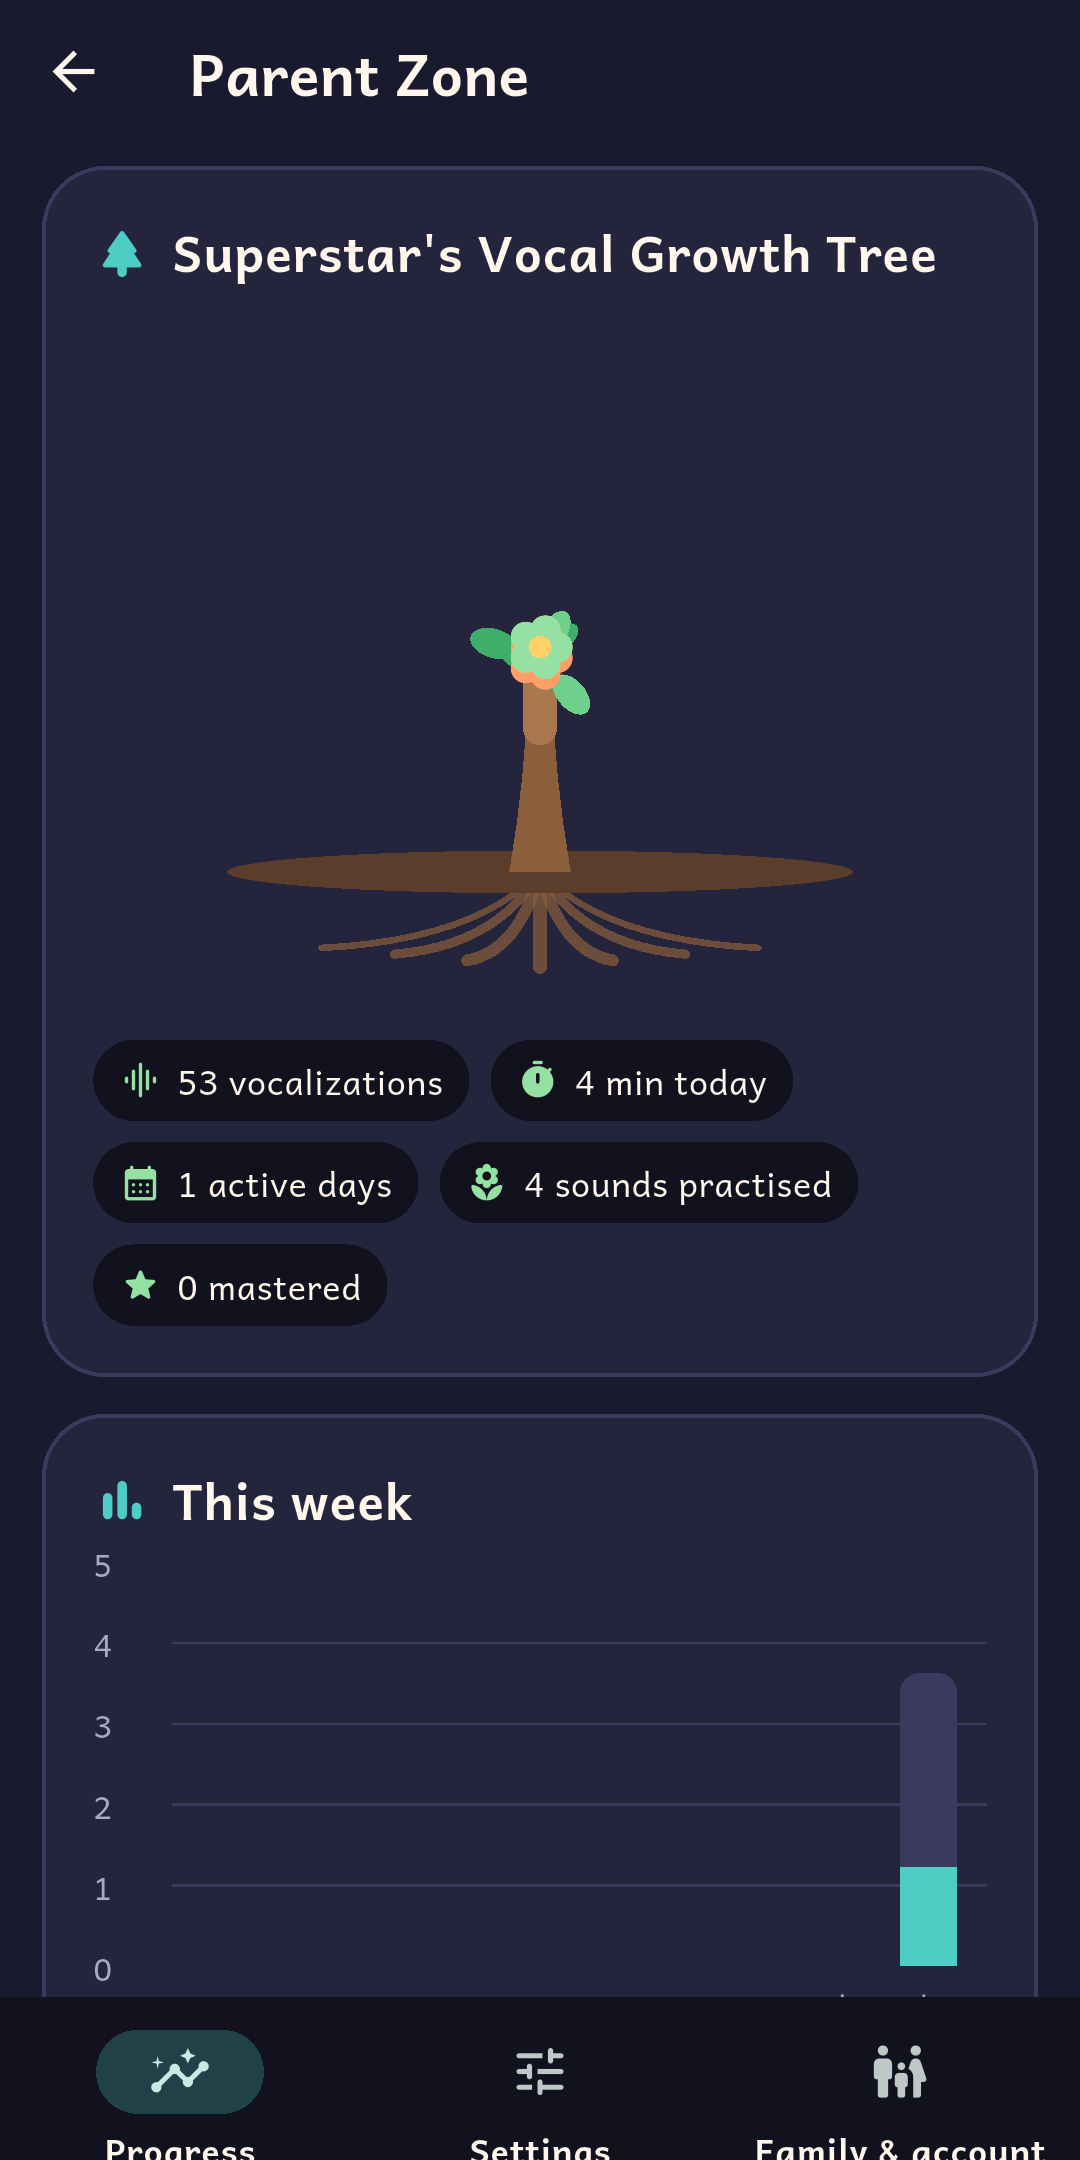
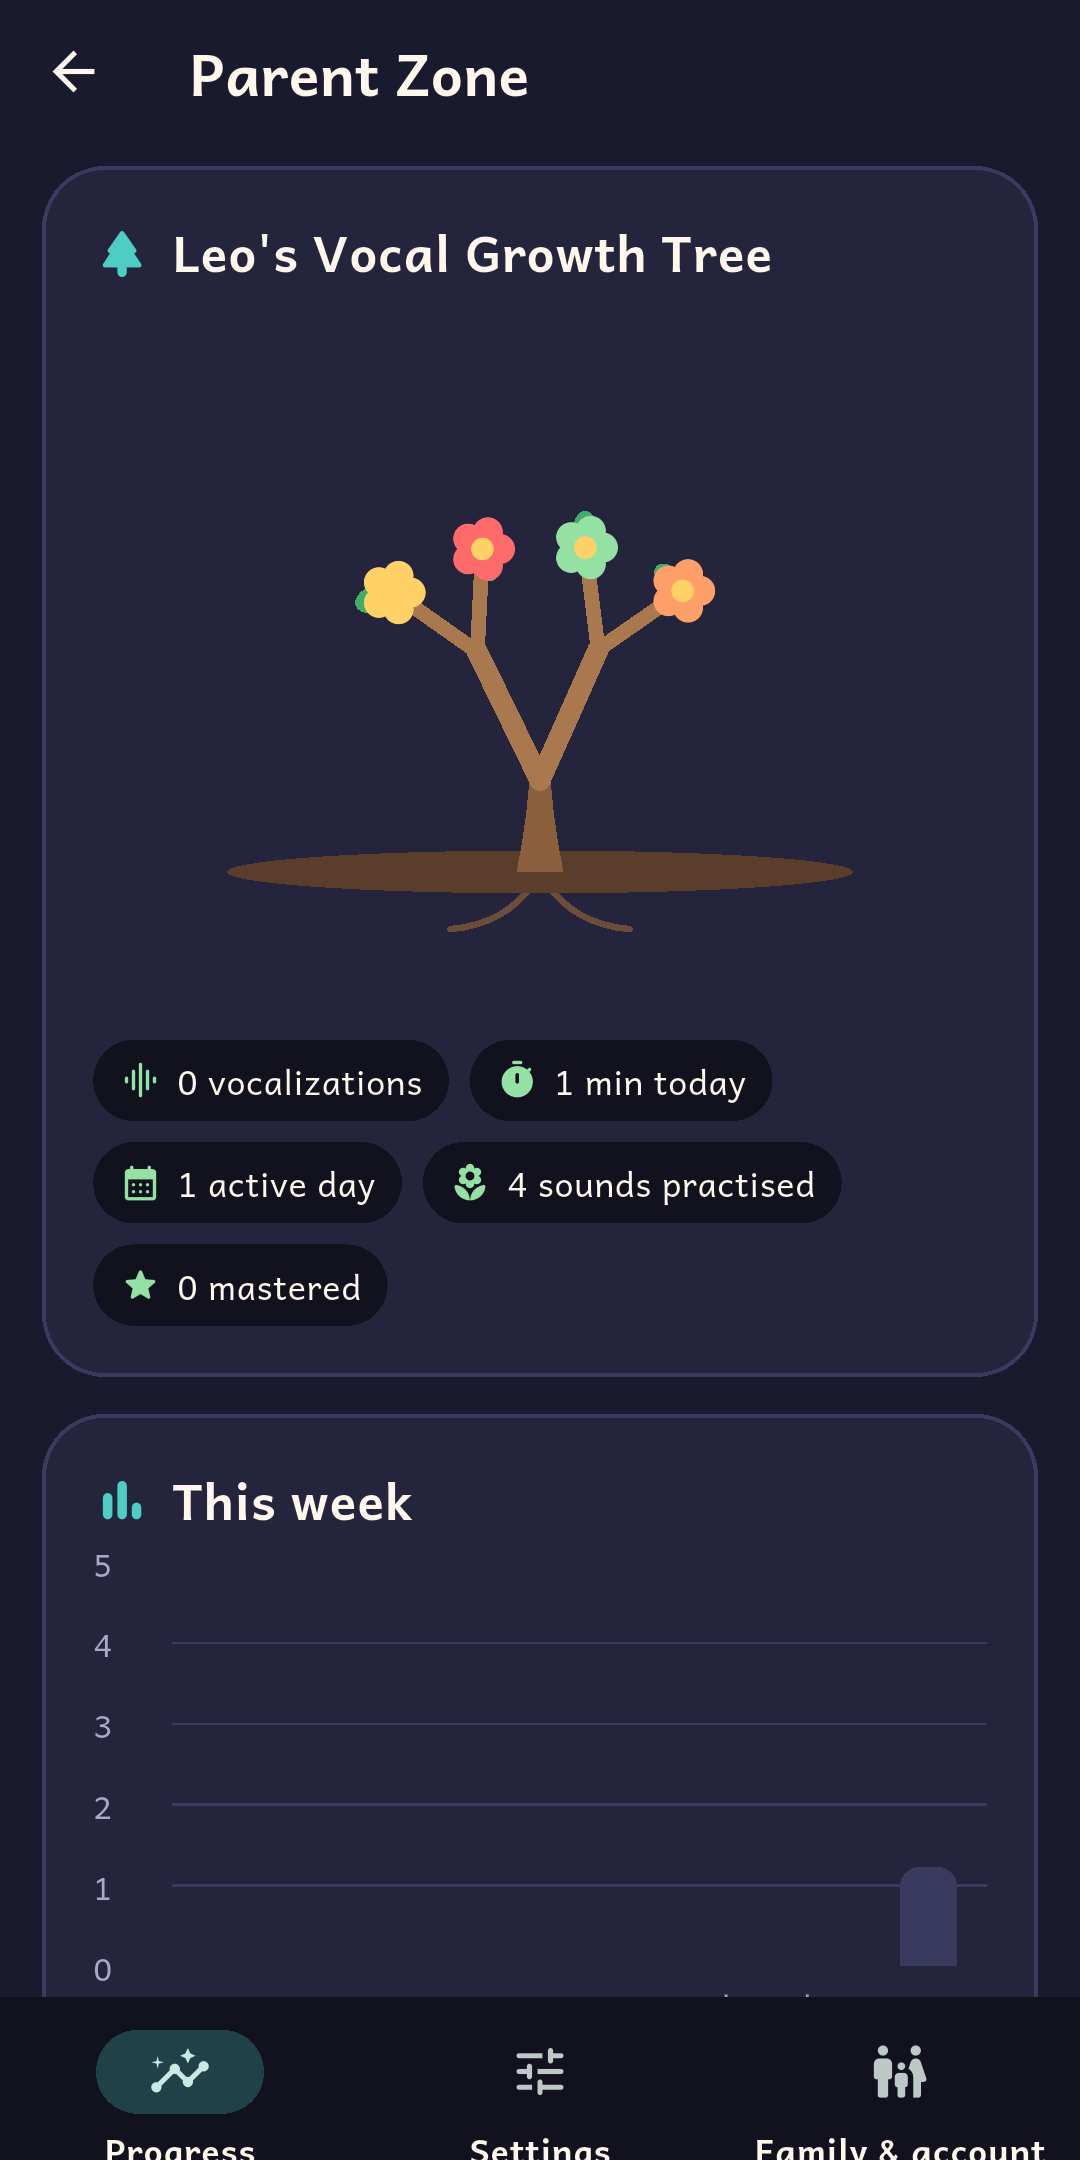
Harden device tests; fuller early growth tree; plural fixes
- Device suites bundled in integration_test/all_test.dart; waits and
  retrying back navigation for slow emulators. All 3 pass on Android 15.
- Growth tree forks at the trunk top and sizes branches to fit, so day-one
  trees branch visibly and big trees stay in frame.
- "1 active day" / "1 sound" pluralization on the progress chips.
- Refreshed growth-tree store screenshot; documented test results.

diff --git a/integration_test/app_flow_test.dart b/integration_test/app_flow_test.dart
@@ -36,11 +36,34 @@ Future<void> waitFor(WidgetTester tester, Finder f, {double seconds = 45}) async
   expect(f, findsWidgets);
 }
 
+/// Pumps until [f] finds nothing.
+Future<void> waitGone(WidgetTester tester, Finder f, {double seconds = 20}) async {
+  final end = DateTime.now().add(Duration(milliseconds: (seconds * 1000).round()));
+  while (f.evaluate().isNotEmpty && DateTime.now().isBefore(end)) {
+    await tester.pump(const Duration(milliseconds: 100));
+  }
+  expect(f, findsNothing);
+}
+
 Future<void> tapIn(WidgetTester tester, Finder f) async {
   await waitFor(tester, f);
   await tester.ensureVisible(f);
   await tester.pump();
   await tester.tap(f);
+}
+
+/// Taps the top-most Back until [target] shows. On a slow emulator a tap can
+/// land on a screen that is still fading out.
+Future<void> backUntil(WidgetTester tester, Finder target) async {
+  for (var i = 0; i < 4 && target.evaluate().isEmpty; i++) {
+    final back = find.bySemanticsLabel('Back');
+    if (back.evaluate().isNotEmpty) await tester.tap(back.last, warnIfMissed: false);
+    final end = DateTime.now().add(const Duration(seconds: 8));
+    while (target.evaluate().isEmpty && DateTime.now().isBefore(end)) {
+      await tester.pump(const Duration(milliseconds: 100));
+    }
+  }
+  expect(target, findsWidgets);
 }
 
 void main() {
@@ -51,17 +74,19 @@ void main() {
     final dir = Directory('${docs.path}/it_${DateTime.now().millisecondsSinceEpoch}')..createSync();
     final store = await Store.open(dir);
     final speech = Speech(); // real TTS: prompts play, and the mic is muted meanwhile
-    await tester.pumpWidget(EchoStepsApp(
-      store: store,
-      sound: SoundPlayer(),
-      speech: speech,
-      voice: VoiceEngine(
-        appSpeaking: speech.speaking,
-        inputFactory: (id) => SynthInput(script: id == null ? null : SynthInput.targetScript(id)),
+    await tester.pumpWidget(
+      EchoStepsApp(
+        store: store,
+        sound: SoundPlayer(),
+        speech: speech,
+        voice: VoiceEngine(
+          appSpeaking: speech.speaking,
+          inputFactory: (id) => SynthInput(script: id == null ? null : SynthInput.targetScript(id)),
+        ),
+        session: SessionTracker(store),
+        cloud: CloudSync(store: store),
       ),
-      session: SessionTracker(store),
-      cloud: CloudSync(store: store),
-    ));
+    );
     await run(tester, 3);
 
     // Setup.
@@ -81,7 +106,7 @@ void main() {
     // Sound Spark.
     await tapIn(tester, find.byKey(const ValueKey('hub-spark')));
     await run(tester, 15);
-    await tapIn(tester, find.bySemanticsLabel('Back').first);
+    await backUntil(tester, find.byKey(const ValueKey('hub-safari')));
     await run(tester, 2);
 
     // Echo Safari: "ah" then "Next sound" to "mmm".
@@ -91,19 +116,23 @@ void main() {
     await waitFor(tester, find.text('New card!'), seconds: 90);
     await run(tester, 2);
     await tapIn(tester, find.byKey(const ValueKey('stop-next')));
+    // The first stop's reward fades out before the "Mmm" stop takes over.
+    await waitGone(tester, find.text('New card!'));
     await waitFor(tester, find.text('New card!'), seconds: 90);
-    await tapIn(tester, find.bySemanticsLabel('Back').first);
+    expect(find.text('milk'), findsOneWidget);
+    await backUntil(tester, find.byKey(const ValueKey('stop-ah'))); // the map
     await run(tester, 2);
-    await tapIn(tester, find.bySemanticsLabel('Back').first);
+    await backUntil(tester, find.byKey(const ValueKey('hub-cards')));
     await run(tester, 2);
 
     // Card wall.
     await tapIn(tester, find.byKey(const ValueKey('hub-cards')));
-    await run(tester, 2);
-    expect(find.text('milk'), findsWidgets); // unlocked by "mmm"
-    await tapIn(tester, find.byKey(const ValueKey('card-milk')));
+    await waitFor(tester, find.byKey(const ValueKey('card-more')));
+    // "milk" (unlocked by "mmm") is further down the grid.
+    await tester.dragUntilVisible(find.byKey(const ValueKey('card-milk')), find.byType(GridView), const Offset(0, -300));
+    await tester.tap(find.byKey(const ValueKey('card-milk')));
     await run(tester, 6);
-    await tapIn(tester, find.bySemanticsLabel('Back').first);
+    await backUntil(tester, find.byKey(const ValueKey('parent-lock')));
     await run(tester, 2);
 
     // Parent Zone.

diff --git a/lib/widgets/growth_tree.dart b/lib/widgets/growth_tree.dart
@@ -102,8 +102,8 @@ class GrowthTreePainter extends CustomPainter {
     );
 
     // Trunk.
-    final trunkH = h * (0.12 + 0.3 * stats.growth);
-    final trunkW = w * (0.025 + 0.035 * stats.growth);
+    final trunkH = h * (0.1 + 0.2 * stats.growth);
+    final trunkW = w * (0.022 + 0.03 * stats.growth);
     final top = Offset(w / 2, ground - trunkH);
     canvas.drawPath(
       Path()
@@ -115,33 +115,44 @@ class GrowthTreePainter extends CustomPainter {
       Paint()..color = _bark,
     );
 
-    // Branches.
+    // Branches fork right at the trunk top. Their length is sized so the
+    // whole canopy fits the space above, however deep it gets.
     final tips = <Offset>[];
     final branchPaint = Paint()
       ..color = _barkLight
       ..strokeCap = StrokeCap.round;
+    const shrink = 0.72;
     void branch(Offset from, double angle, double len, double width, int depth) {
-      if (depth == 0) {
-        tips.add(from);
-        return;
-      }
       final to = from + Offset(math.sin(angle), -math.cos(angle)) * len;
       branchPaint.strokeWidth = width;
       canvas.drawLine(from, to, branchPaint);
-      final spread = 0.42 + rand.nextDouble() * 0.2;
-      branch(to, angle - spread, len * 0.74, width * 0.7, depth - 1);
-      branch(to, angle + spread, len * 0.74, width * 0.7, depth - 1);
+      if (depth <= 1) {
+        tips.add(to);
+        return;
+      }
+      final spread = 0.38 + rand.nextDouble() * 0.18;
+      branch(to, angle - spread, len * shrink, width * 0.7, depth - 1);
+      branch(to, angle + spread, len * shrink, width * 0.7, depth - 1);
     }
 
     final depth = stats.depth;
     if (depth == 0) {
       tips.add(top);
     } else {
-      branch(top, 0, h * (0.08 + 0.07 * stats.growth), trunkW * 1.1, depth);
+      var reach = 0.0;
+      for (var k = 0; k < depth; k++) {
+        reach += math.pow(shrink, k) * 0.85; // branches lean, so less than full height
+      }
+      final len = math.min((top.dy - h * 0.17) / reach, h * 0.2);
+      final width = trunkW * 0.9;
+      for (final a in [-0.45, 0.45]) {
+        branch(top, a + (rand.nextDouble() - 0.5) * 0.1, len, width, depth);
+      }
+      if (depth >= 3) branch(top, (rand.nextDouble() - 0.5) * 0.15, len * 0.9, width * 0.9, depth - 1);
     }
 
     // Leaves: clusters at the tips, fuller with more vocalizations.
-    final perTip = (1 + stats.vocalizations / (8 * tips.length)).clamp(1, 5).round();
+    final perTip = (2 + stats.vocalizations / (8 * tips.length)).clamp(2, 6).round();
     for (final tip in tips) {
       for (var k = 0; k < perTip; k++) {
         final a = rand.nextDouble() * math.pi * 2;

diff --git a/tool/preview_tree_test.dart b/tool/preview_tree_test.dart
@@ -1,0 +1,48 @@
+import 'dart:io';
+import 'dart:ui' as ui;
+
+import 'package:echosteps/core/content.dart';
+import 'package:echosteps/core/theme.dart';
+import 'package:echosteps/widgets/growth_tree.dart';
+import 'package:flutter/material.dart';
+import 'package:flutter_test/flutter_test.dart';
+
+/// Renders the growth tree at several stages to build/preview/trees.png.
+void main() {
+  test('render trees', () async {
+    final stages = [
+      const TreeStats(vocalizations: 0, minutes: 0, activeDays: 0, practised: [], mastered: []),
+      TreeStats(vocalizations: 0, minutes: 2, activeDays: 1, practised: targets.take(2).toList(), mastered: const []),
+      TreeStats(vocalizations: 60, minutes: 12, activeDays: 3, practised: targets.take(4).toList(), mastered: const []),
+      TreeStats(
+        vocalizations: 400,
+        minutes: 90,
+        activeDays: 9,
+        practised: targets.take(6).toList(),
+        mastered: [targets[0]],
+      ),
+      TreeStats(
+        vocalizations: 2500,
+        minutes: 400,
+        activeDays: 30,
+        practised: targets,
+        mastered: targets.take(4).toList(),
+      ),
+    ];
+    const w = 360.0, h = 288.0;
+    final rec = ui.PictureRecorder();
+    final c = Canvas(rec);
+    c.drawRect(Rect.fromLTWH(0, 0, w * stages.length, h), Paint()..color = ES.card);
+    for (var i = 0; i < stages.length; i++) {
+      c.save();
+      c.translate(i * w, 0);
+      GrowthTreePainter(stages[i], seed: 7).paint(c, const Size(w, h));
+      c.restore();
+    }
+    final img = await rec.endRecording().toImage((w * stages.length).toInt(), h.toInt());
+    Directory('build/preview').createSync(recursive: true);
+    File(
+      'build/preview/trees.png',
+    ).writeAsBytesSync((await img.toByteData(format: ui.ImageByteFormat.png))!.buffer.asUint8List());
+  });
+}

diff --git a/integration_test/cloud_test.dart b/integration_test/cloud_test.dart
@@ -19,6 +19,15 @@ import 'package:path_provider/path_provider.dart';
 
 Future<void> settle([int ms = 1500]) => Future<void>.delayed(Duration(milliseconds: ms));
 
+/// Polls [ok] for up to 30 s (a slow emulator talks to the host's Firebase
+/// emulators through adb reverse).
+Future<void> until(bool Function() ok) async {
+  final end = DateTime.now().add(const Duration(seconds: 30));
+  while (!ok() && DateTime.now().isBefore(end)) {
+    await Future<void>.delayed(const Duration(milliseconds: 250));
+  }
+}
+
 void main() {
   IntegrationTestWidgetsFlutterBinding.ensureInitialized();
   late FirebaseAuth auth;
@@ -68,6 +77,7 @@ void main() {
     final syncA = CloudSync(store: storeA, auth: auth, db: db);
     await syncA.start();
     final c = storeA.addChild(nickname: 'Leo', ageGroup: '4-5', buddy: Buddy.pip);
+    await until(() => syncA.state.value.mode == CloudMode.guest);
     await settle();
     expect(syncA.state.value.mode, CloudMode.guest);
     final guestUid = auth.currentUser!.uid;
@@ -116,6 +126,7 @@ void main() {
     final syncA = CloudSync(store: storeA, auth: auth, db: db);
     await syncA.start();
     final c = storeA.addChild(nickname: 'Mia', ageGroup: '2-3', buddy: Buddy.milo);
+    await until(() => syncA.state.value.mode == CloudMode.guest);
     await settle();
     final uidA = auth.currentUser!.uid;
     await auth.signOut();

diff --git a/lib/views/parent/progress_tab.dart b/lib/views/parent/progress_tab.dart
@@ -65,10 +65,10 @@ class _ProgressTabState extends State<ProgressTab> {
                 spacing: 8,
                 runSpacing: 8,
                 children: [
-                  _Fact(Icons.graphic_eq_rounded, '${c.totalVocalizations} vocalizations', 'roots'),
+                  _Fact(Icons.graphic_eq_rounded, _count(c.totalVocalizations, 'vocalization'), 'roots'),
                   _Fact(Icons.timer_rounded, '${todayMin.round()} min today', 'trunk'),
-                  _Fact(Icons.calendar_month_rounded, '${tree.activeDays} active days', 'branches'),
-                  _Fact(Icons.local_florist_rounded, '${tree.practised.length} sounds practised', 'flowers'),
+                  _Fact(Icons.calendar_month_rounded, _count(tree.activeDays, 'active day'), 'branches'),
+                  _Fact(Icons.local_florist_rounded, '${_count(tree.practised.length, 'sound')} practised', 'flowers'),
                   _Fact(Icons.star_rounded, '${tree.mastered.length} mastered', 'stars'),
                 ],
               ),
@@ -403,3 +403,6 @@ class _SoundChip extends StatelessWidget {
     );
   }
 }
+
+/// "1 active day", "3 active days".
+String _count(int n, String noun) => '$n $noun${n == 1 ? '' : 's'}';

diff --git a/integration_test/all_test.dart b/integration_test/all_test.dart
@@ -1,0 +1,12 @@
+// Both device suites in one APK, so the slow build runs once:
+//   nice -n 19 flutter build apk --debug --target integration_test/all_test.dart
+//   flutter drive --driver test_driver/integration_test.dart --target integration_test/all_test.dart \
+//     --use-application-binary build/app/outputs/flutter-apk/app-debug.apk -d <device>
+// The cloud suite needs the Firebase emulators and adb reverse (see cloud_test.dart).
+import 'app_flow_test.dart' as app_flow;
+import 'cloud_test.dart' as cloud;
+
+void main() {
+  app_flow.main();
+  cloud.main();
+}

diff --git a/docs/testing.md b/docs/testing.md
@@ -10,18 +10,25 @@
 | Cloud end-to-end on a device | see below | Real Firebase SDKs + rules on the local emulators: guest backup → add email (same UID) → sign out → wrong password refused → restore on a "new device" → delete account; another family can't read |
 | Stress | `adb shell monkey -p com.homilabs.echosteps --pct-syskeys 0 --throttle 120 -v 3000` | Thousands of random taps and swipes, like a toddler mashing the screen |
 
+### Results for v1.0.0 (25 Sep 2026, Android 15 emulator, AVD `echosteps_api35`)
+- `flutter analyze`: no issues. `flutter test`: 79/79 passed. Rules: 8/8 passed.
+- Device suites (`integration_test/all_test.dart`): 3/3 passed (app flow; cloud upgrade/restore/delete; cross-family isolation).
+- Release build, by hand: setup with the microphone denied, touch fallback in Echo Safari, "Next sound" then Back twice, Parent Zone, cloud backup "synced" against production Firebase (so R8 didn't break Firestore).
+- Monkey: 3,000 events on the release build: no crashes, no ANRs.
+- Release APK permissions: `RECORD_AUDIO`, `INTERNET`, `ACCESS_NETWORK_STATE` (plus Play-services internals); the advertising ID is removed.
+
 ### Running the device tests on this machine
 Gradle builds starve the emulator (its hang watchdog kills it), and `pixel6_api35` is shared with other projects. So: use the dedicated AVD, and build before driving.
 
 ```
 # 1. build the test APK (emulator may be off)
-nice -n 19 flutter build apk --debug --target integration_test/app_flow_test.dart
+nice -n 19 flutter build apk --debug --target integration_test/all_test.dart
 # 2. start the dedicated emulator
 ANDROID_AVD_HOME=/mnt/storage/projects/android-avd ~/Android/Sdk/emulator/emulator -avd echosteps_api35 -port 5580 -gpu swangle_indirect -cores 3 -memory 2560 -no-audio &
 # 3. drive it
-flutter drive --driver test_driver/integration_test.dart --target integration_test/app_flow_test.dart --use-application-binary build/app/outputs/flutter-apk/app-debug.apk -d emulator-5580
+flutter drive --driver test_driver/integration_test.dart --target integration_test/all_test.dart --use-application-binary build/app/outputs/flutter-apk/app-debug.apk -d emulator-5580
 ```
-For `cloud_test.dart`, first start `firebase emulators:start --only auth,firestore --project demo-echosteps` (JDK 21) and run `adb -s emulator-5580 reverse tcp:9099 tcp:9099` and `adb -s emulator-5580 reverse tcp:8085 tcp:8085`, then steps 1 and 3 with that target. It never touches the production project.
+For the cloud suite, first start `firebase emulators:start --only auth,firestore --project demo-echosteps` (JDK 21) and run `adb -s emulator-5580 reverse tcp:9099 tcp:9099` and `adb -s emulator-5580 reverse tcp:8085 tcp:8085`, then steps 1 and 3 (all_test.dart runs both suites). It never touches the production project.
 
 To play the app on an emulator without a microphone: `flutter build apk --debug --dart-define=ES_SYNTH_VOICE=true` (a synthetic child hums, babbles and says vowels).
 
